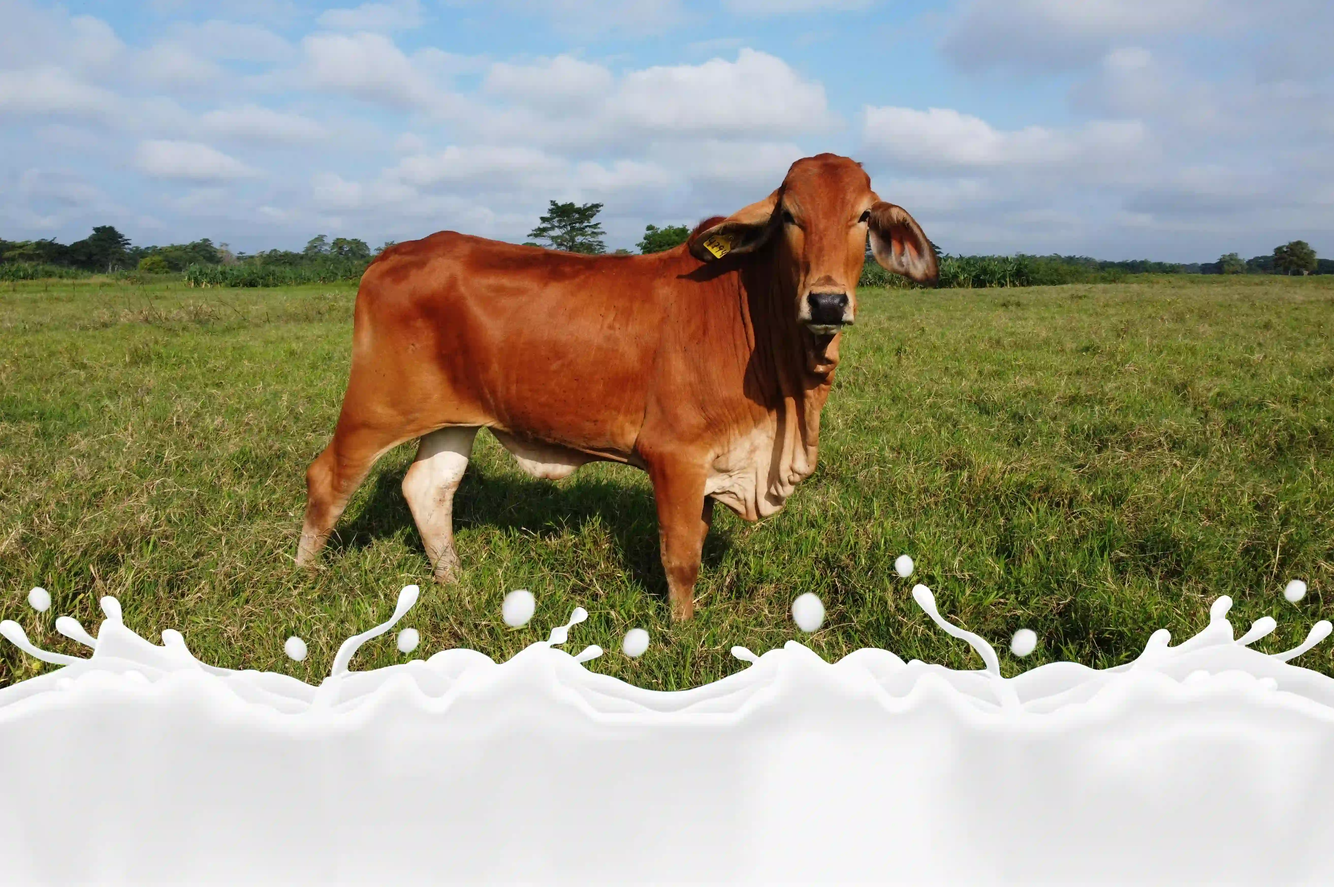
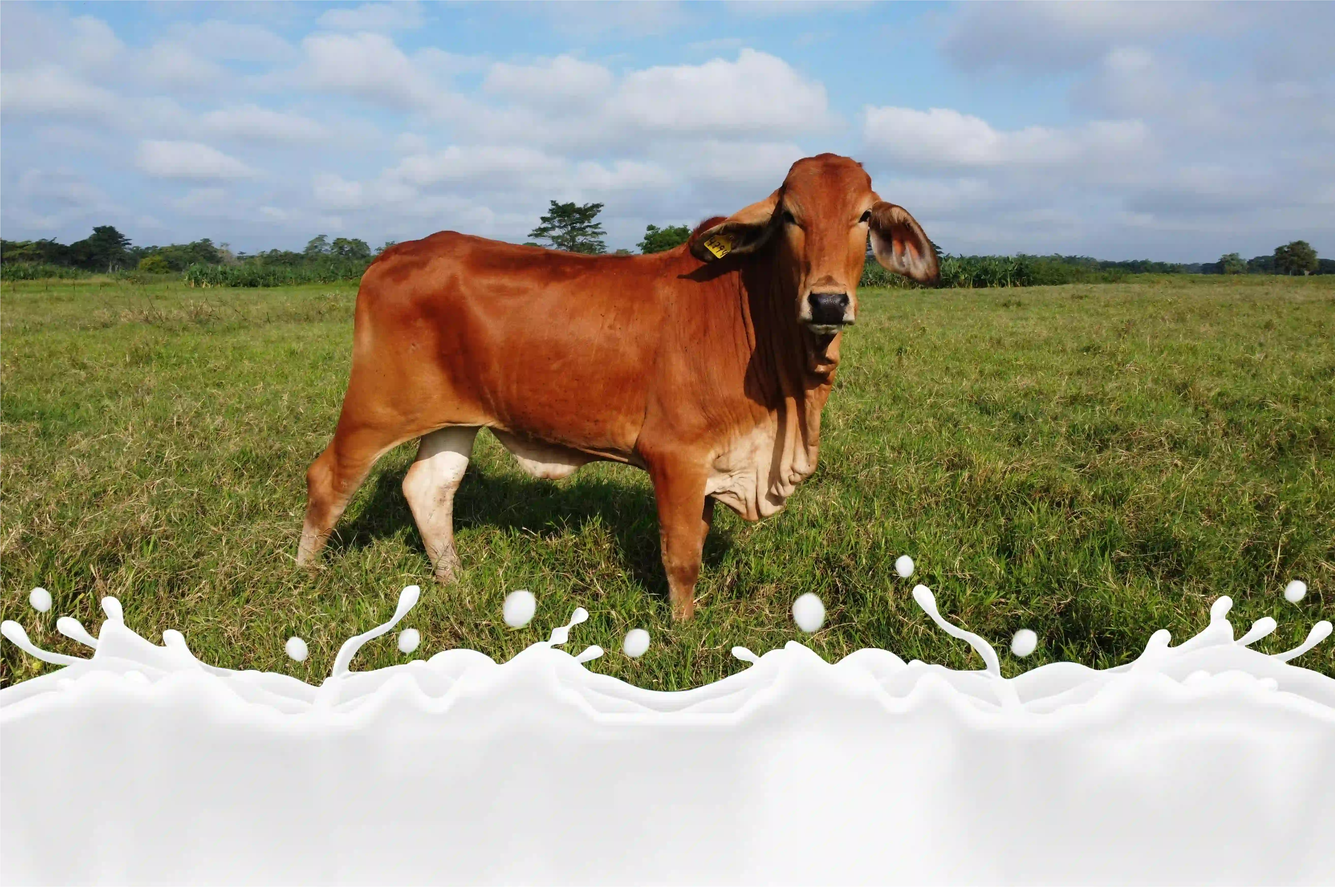
final-commit-to-show-client

Changed region(s): [[0.0, 0.4685, 1.0, 0.7808], [0.2186, 0.4685, 0.2498, 0.4997]]

diff --git a/src/app/modules/home/components/home-header/home-header.component.css b/src/app/modules/home/components/home-header/home-header.component.css
@@ -235,6 +235,11 @@
     margin-bottom: 50px;
   }
 
+  .item-2>img{
+   object-position:30% center;
+}
+
+
 .carousel-item > img 
 {
   object-fit: cover;
@@ -243,8 +248,16 @@
 
 /*for mobile screen */
 @media screen and (max-width: 600px) {
+
+  
   .home-header-main-container {
     padding: 150px 15px 300px 15px;
+    background-image: url("../../../../../../public/images/background-images/header-background-img-3.webp");
+     background-position: 60% center; 
+  
+  }
+  #carouselExample{
+    display: none;
   }
 
   .carousel {
